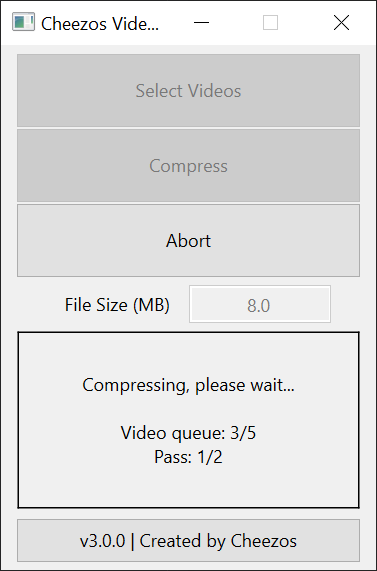
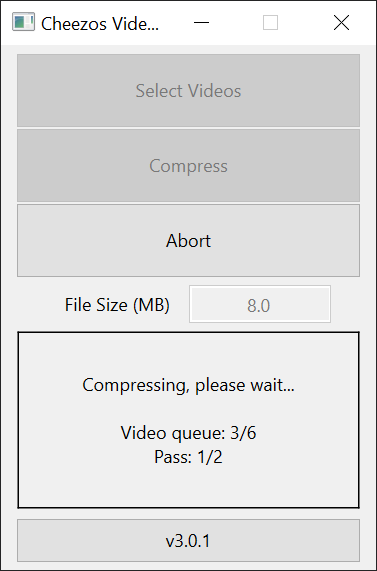
Fixed a bug with white space directories

Changed region(s): [[0.2042, 0.9229, 0.7878, 0.9825], [0.6419, 0.7443, 0.7003, 0.7741]]

diff --git a/main.py b/main.py
@@ -64,7 +64,7 @@ class Window(QWidget):
         self._label_log.setWordWrap(True)
         self._label_log.setAlignment(Qt.AlignmentFlag.AlignCenter)
         self._label_log.setStyleSheet("border: 1px solid black; margin: 1px")
-        self._button_foot = QPushButton(f"v{g.VERSION} | Created by Cheezos", self)
+        self._button_foot = QPushButton(f"v{g.VERSION}", self)
         self._button_foot.resize(SBW, SBH)
         X, Y = g.B_FOOT_POS
         self._button_foot.move(X, Y)
@@ -159,14 +159,14 @@ class Window(QWidget):
         print("Verifying directories...")
         g.dir_root = os.path.dirname(os.path.abspath(__file__))
         print(f"Root: {g.dir_root}")
-        g.dir_bin = f"{g.dir_root}/bin"
+        g.dir_bin = os.path.join(g.dir_root, "bin")
 
         if not os.path.exists(g.dir_bin):
             os.mkdir(g.dir_bin)
             print(f"Created bin directory")
 
         print(f"Bin: {g.dir_bin}")
-        g.dir_output = f"{g.dir_root}/output"
+        g.dir_output = os.path.join(g.dir_root, "output")
 
         if not os.path.exists(g.dir_output):
             os.mkdir(g.dir_output)
@@ -177,14 +177,16 @@ class Window(QWidget):
 
     def _handle_windows(self):
         print("Windows detected")
-        FFMPEG_PATH = f"{g.dir_bin}/ffmpeg.exe"
-        FFPROBE_PATH = f"{g.dir_bin}/ffprobe.exe"
+        FFMPEG_PATH = os.path.join(g.dir_bin, "ffmpeg.exe")
+        print(f"FFmpeg: {FFMPEG_PATH}")
+        FFPROBE_PATH = os.path.join(g.dir_bin, "ffprobe.exe")
+        print(f"FFprobe: {FFPROBE_PATH}")
 
         if os.path.exists(FFMPEG_PATH) and os.path.exists(FFPROBE_PATH):
             BIN_PATH = g.dir_bin
             g.ffmpeg_installed = True
-            g.ffmpeg_path = f"{BIN_PATH}/ffmpeg.exe"
-            g.ffprobe_path = f"{BIN_PATH}/ffprobe.exe"
+            g.ffmpeg_path = FFMPEG_PATH
+            g.ffprobe_path = FFPROBE_PATH
             self._button_select.setEnabled(True)
         else:
             self._download_thread = DownloadThread()

diff --git a/src/thread.py b/src/thread.py
@@ -20,28 +20,18 @@ class CompressionThread(QThread):
         PASS = "1" if pass_1 else "2"
         MSG = f"Compressing, please wait...\n\nVideo queue: {COMPLETED_COUNT}/{QUEUE_COUNT}\nPass: {PASS}/2"
         FILE_NAME = file_path.split("/")[-1]
-        FFMPEG = g.ffmpeg_path
-        INPUT = file_path
+        FFMPEG_PATH = g.ffmpeg_path
+        INPUT_PATH = file_path
         BITRATE = f"{bitrate}k"
         print(f"New bitrate: {BITRATE}")
-        OUTPUT = rf"{g.dir_output}/{FILE_NAME}-compressed.mp4"
+        OUTPUT_PATH = os.path.join(g.dir_output, f"{FILE_NAME}-compressed.mp4")
         print(MSG)
         cmd = ""
 
         if pass_1:
-            cmd = r""""%s" -i "%s" -y -b:v %s -an -pass 1 -f mp4 TEMP""" % (
-                FFMPEG,
-                INPUT,
-                BITRATE,
-            )
+            cmd = f'"{FFMPEG_PATH}" -i "{INPUT_PATH}" -y -b:v {BITRATE} -an -pass 1 -f mp4 TEMP'
         else:
-            cmd = r""""%s" -i "%s" -y -b:v %sk -b:a %sk -pass 2 "%s" """ % (
-                g.ffmpeg_path,
-                file_path,
-                bitrate,
-                128,
-                OUTPUT,
-            )
+            cmd = f'"{FFMPEG_PATH}" -i "{INPUT_PATH}" -y -b:v {BITRATE} -b:a 128k -pass 2 "{OUTPUT_PATH}"'
 
         print(cmd)
         self.update_label.emit(MSG)

diff --git a/src/utils.py b/src/utils.py
@@ -6,11 +6,8 @@ from math import floor
 
 
 def get_video_length(file_path):
-    VIDEO = '"%s"' % file_path
-    CMD = (
-        "%s -v error -show_entries format=duration -of default=noprint_wrappers=1:nokey=1 %s"
-        % (g.ffprobe_path, VIDEO)
-    )
+    VIDEO = "%s" % file_path
+    CMD = f'"{g.ffprobe_path}" -v error -show_entries format=duration -of default=noprint_wrappers=1:nokey=1 "{file_path}"'
     PROCESS = subprocess.Popen(CMD, stdout=subprocess.PIPE, shell=True)
     LENGTH = float(PROCESS.stdout.readline())
     print(f"Video duration: {LENGTH}")
@@ -28,9 +25,9 @@ def get_video_bitrate(file_path, target_file_size):
 
 def clean():
     try:
-        os.remove("TEMP")
-        os.remove("ffmpeg2pass-0.log")
-        os.remove("ffmpeg2pass-0.log.mbtree")
+        os.remove(os.path.join(g.dir_root, "TEMP"))
+        os.remove(os.path.join(g.dir_root, "ffmpeg2pass-0.log"))
+        os.remove(os.path.join(g.dir_root, "ffmpeg2pass-0.log.mbtree"))
     except:
         print("No temporary files to remove")
 

diff --git a/src/globals.py b/src/globals.py
@@ -1,4 +1,4 @@
-VERSION = "3.0.0"
+VERSION = "3.0.1"
 FFMPEG_DL = "https://github.com/BtbN/FFmpeg-Builds/releases/download/latest/ffmpeg-master-latest-win64-gpl.zip"
 TITLE = f"Cheezos Video Compressor v{VERSION}"
 READY_TEXT = f"Select your videos to get started."
